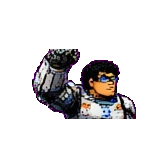
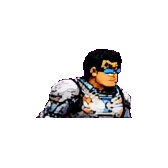
Kits novos da Winx.exe e da Guarda Digital, Dev Veterano recortado de novo
- Winx.exe (sistema operacional): Pop-up de Erro (3 janelas teleguiadas
  que cegam), Alt+Tab (teleporte pras costas / cai por cima), Tela Azul
  (congela), Desfragmentar (puxa e embaralha os botoes), ult Atualizacao
  Forcada (botoes embaralhados + sem poderes + perde medidor)
- Guarda Digital (seguranca de rede): Taser de Rede (paralisa), Algemas
  Criptografadas (prende + vulneravel), Muralha de Firewall, Drones de
  Vigilancia (chuva com aviso), ult Quarentena (zona: sem poderes, lento)
- fx.shuffle (botoes embaralhados) vale pra qualquer habilidade
- kits em js/data/kits-v15.js, depois de todas as camadas antigas
- balanceamento: Winx 57%, Guarda 52% (forca 1.77 -> 2.2 na tabela unica)
- Dev Veterano: recortado de novo da folha 'reformulado' do dono (pose
  parada de verdade, soco em 3 tempos, especial com a arma, tamanho igual
  em todas as poses); sem imagem nova
- testes de perf/selecao aceitam o skipGame (demo parada no celular)

Claude-Session: https://claude.ai/code/session_01SiaquMaGUrkfDxfxtSpwxQ

Changed region(s): [[0.1786, 0.2679, 0.8333, 0.7143]]

diff --git a/js/data/kits-v15.js b/js/data/kits-v15.js
@@ -1,0 +1,66 @@
+/* DS Fighters — kits renovados (nov/2026, pedido do dono: "muito genericos").
+   Carregado DEPOIS de todas as camadas de balanceamento (powers-balance-v6..v13,
+   balance-v14 e a tabela unica balance-final.js): o kit aqui e o definitivo.
+   Usa as mesmas linhas do atlas de habilidades de cada um (sem arte nova). */
+(() => {
+  const vis = (id, row, color) => ({ visualSheet: id, visualRow: row, impactSheets: [], impactColor: color });
+
+  /* WINX.EXE — a Guardia do Desktop: o sistema operacional virou arma.
+     Pop-ups que tampam a tela, Alt+Tab pras costas, tela azul que congela,
+     desfragmentar que puxa e embaralha, e a atualizacao forcada. */
+  if (POWERS['winx-exe']) {
+    POWERS['winx-exe'] = Object.assign({}, POWERS['winx-exe'], {
+      theme: 'sistema operacional: pop-ups, Alt+Tab, tela azul, desfragmentar e atualizacao forcada',
+      powers: [
+        Object.assign({ id: 'popup-erro', name: 'Pop-up de Erro', slot: 'simple', row: 0, kind: 'barrage', count: 3, dmg: 8, seek: true, homing: 0.4, cd: 46, sfx: 'neon',
+          fx: { blind: 45, glitch: 40 },
+          desc: '3 janelas de ERRO perseguem o rival e tampam a tela dele (CEGO).' }, vis('winx-exe', 0, '#45e6ff')),
+        Object.assign({ id: 'alt-tab', name: 'Alt+Tab', slot: 'simple', row: 1, kind: 'shadowport', burstDmg: 18, stun: 22, cd: 54, sfx: 'magic',
+          fx: { dizzy: 30 },
+          desc: 'Some da janela e reaparece nas COSTAS do rival (aperte soco/chute pra emendar) ou cai por CIMA esmagando: TONTO.' }, vis('winx-exe', 1, '#ff4fd8')),
+        Object.assign({ id: 'tela-azul', name: 'Tela Azul', slot: 'charge', meter: 0, row: 2, kind: 'pillar', at: 'target', big: true, delay: 20, dmg: 20, stun: 30, launch: -8, cd: 76, sfx: 'explosion',
+          fx: { freeze: 45, glitch: 60 },
+          desc: 'O sistema do rival trava: TELA AZUL que CONGELA por um instante.' }, vis('winx-exe', 2, '#2a6bff')),
+        Object.assign({ id: 'desfragmentar', name: 'Desfragmentar', slot: 'charge', meter: 1, row: 3, kind: 'pull', range: 360, dmg: 12, stun: 30, cd: 92, sfx: 'neon',
+          fx: { shuffle: 150, meterSlow: 40 },
+          desc: 'Reorganiza o disco: PUXA o rival pra perto e EMBARALHA os botões dele.' }, vis('winx-exe', 3, '#45e6ff')),
+        Object.assign({ id: 'atualizacao-forcada', name: 'Atualização Forçada', slot: 'ultimate', row: 4, kind: 'blast', at: 'target', radius: 260, dmg: 30, stun: 40, launch: -9, cd: 130, sfx: 'ultimate',
+          fx: { shuffle: 240, lock: 90, meterBurn: 35 },
+          desc: 'ULT: "Instalando atualização 1 de 87...": botões EMBARALHADOS, SEM PODERES e o medidor do rival cai.' }, vis('winx-exe', 4, '#45e6ff')),
+      ],
+    });
+  }
+
+  /* GUARDA DIGITAL — a Sentinela do Perimetro: seguranca de rede.
+     Taser que paralisa, algemas que prendem, muralha de firewall, drones de
+     vigilancia e a quarentena que isola o invasor. */
+  if (POWERS['guarda-digital']) {
+    POWERS['guarda-digital'] = Object.assign({}, POWERS['guarda-digital'], {
+      theme: 'seguranca de rede: taser, algemas, firewall, drones e quarentena',
+      powers: [
+        Object.assign({ id: 'taser-rede', name: 'Taser de Rede', slot: 'simple', row: 0, kind: 'beam', range: 300, dmg: 14, stun: 20, cd: 44, sfx: 'thunder_cast',
+          fx: { shock: 70, paralyze: 18 },
+          desc: 'Descarga do taser em linha: ELETRIZA e PARALISA de leve.' }, vis('guarda-digital', 0, '#2ad4ff')),
+        Object.assign({ id: 'algemas', name: 'Algemas Criptografadas', slot: 'simple', row: 1, kind: 'shot', speed: 12, dmg: 12, stun: 16, trap: 55, cd: 60, sfx: 'metal',
+          fx: { vuln: 90 },
+          desc: 'Algemas de dados que PRENDEM o rival no lugar e deixam VULNERÁVEL.' }, vis('guarda-digital', 1, '#48dfff')),
+        Object.assign({ id: 'muralha-firewall', name: 'Muralha de Firewall', slot: 'charge', meter: 0, row: 2, kind: 'wall', time: 330, dmg: 12, slow: 30, cd: 90, sfx: 'shield',
+          desc: 'Ergue um firewall: BLOQUEIA projéteis e deixa LENTO quem encostar.' }, vis('guarda-digital', 2, '#2ad4ff')),
+        Object.assign({ id: 'drones', name: 'Drones de Vigilância', slot: 'charge', meter: 1, row: 3, kind: 'rain', count: 4, dmg: 20, cd: 100, sfx: 'explosion',
+          fx: { vuln: 80, shock: 40 },
+          desc: '4 drones bombardeiam a posição do rival, com aviso: VULNERÁVEL + ELETRIZADO.' }, vis('guarda-digital', 3, '#7fe0ff')),
+        Object.assign({ id: 'quarentena', name: 'Quarentena', slot: 'ultimate', row: 4, kind: 'zone', at: 'target', time: 260, w: 300, dmg: 0.16, slow: 60, cd: 130, sfx: 'ultimate',
+          fx: { lock: 100, meterSlow: 90 },
+          desc: 'ULT: isola o rival em QUARENTENA: dano contínuo, LENTO, SEM PODERES e medidor travado.' }, vis('guarda-digital', 4, '#2ad4ff')),
+      ],
+    });
+  }
+  if (typeof SIGNATURES !== 'undefined') {
+    SIGNATURES['guarda-digital'] = Object.assign({}, SIGNATURES['guarda-digital'] || {}, {
+      trait: 'SENTINELA', desc: 'Controle de perímetro: taser, algemas que prendem, firewall, drones e quarentena.',
+    });
+    SIGNATURES['winx-exe'] = Object.assign({}, SIGNATURES['winx-exe'] || {}, {
+      trait: 'SISTEMA OPERACIONAL', desc: 'Pop-ups que cegam, Alt+Tab pras costas, tela azul, desfragmentar que embaralha e atualização forçada.',
+    });
+  }
+})();

diff --git a/index.html b/index.html
@@ -475,7 +475,7 @@
     <div class="turn-phone"><b>GIRE O CELULAR</b><p>A luta é na horizontal. A arena fica no meio e os botões nos cantos.</p></div>
   </div>
 
-  <script src="assets/sprites/layout.js?v=v79-sprites"></script>
+  <script src="assets/sprites/layout.js?v=v79-devvet"></script>
   <script>
     /* Blindagem contra layout.js velho em cache: os arquivos de dados
        (fighters-v7..v11) escrevem em SPRITE_LAYOUT.files / .perFighter,
@@ -557,7 +557,8 @@
   <script src="js/data/fighters-stella.js?v=v73-stella"></script>
   <script src="js/data/fighters-kernor.js?v=v78-kernor-ia"></script>
   <script src="js/data/balance-v14.js?v=v79-pr127"></script>
-  <script src="js/data/balance-final.js?v=v79-tabela"></script>
+  <script src="js/data/balance-final.js?v=v79-guarda"></script>
+  <script src="js/data/kits-v15.js?v=v79-kits"></script>
   <script src="js/data/balance.js?v=v53-torneio"></script>
   <script src="js/data/pets.js?v=v47-maresprites"></script>
   <script src="js/data/accessories.js?v=v57-acessorios"></script>
@@ -573,7 +574,7 @@
   <script src="js/engine/input.js?v=v47-maresprites"></script>
   <script src="js/ui/viewport.js?v=v47-maresprites"></script>
   <script src="js/engine/projectile.js?v=v72-kuno"></script>
-  <script src="js/engine/fighter.js?v=v79-pr127"></script>
+  <script src="js/engine/fighter.js?v=v79-kits"></script>
   <script src="js/engine/vfx.js?v=v47-maresprites"></script>
   <script src="js/engine/weather.js?v=v74-torneio"></script>
   <script src="js/engine/mechanics.js?v=v55-revisao"></script>

diff --git a/js/data/balance-final.js b/js/data/balance-final.js
@@ -43,7 +43,7 @@ const BALANCE_FINAL = {
   'hana': { power: 1.492, hp: 165, speed: 1.18, weight: 0.92, meterRate: 1.15 }, /* HANA */
   'cyber-psicopata': { power: 1.32, hp: 141, speed: 1.26, weight: 1.12, meterRate: 1.4 }, /* CYBER-PSICOPATA */
   'grika': { power: 1.914, hp: 179, speed: 1.16, weight: 1.02, meterRate: 1.36 }, /* GRIKA, A SONHADORA SOMBRIA */
-  'guarda-digital': { power: 1.766, hp: 184, speed: 1.22, weight: 1.08, meterRate: 1.4 }, /* GUARDA DIGITAL */
+  'guarda-digital': { power: 2.2, hp: 184, speed: 1.22, weight: 1.08, meterRate: 1.4 }, /* GUARDA DIGITAL */
   'engenheira-prompt': { power: 0.805, hp: 82, speed: 1.24, weight: 1.04, meterRate: 1.42 }, /* ENGENHEIRA DE PROMPT */
   'odette': { power: 1.02, hp: 103, speed: 1.22, weight: 1.06, meterRate: 1.42 }, /* ODETTE */
   'john-vibe': { power: 1.768, hp: 182, speed: 1.1, weight: 1.05, meterRate: 1.2 }, /* JOHN THE VIBE CODER */

diff --git a/js/engine/fighter.js b/js/engine/fighter.js
@@ -627,7 +627,8 @@ class Fighter {
     if (fx.resonance) this.addStatus('resonance', fx.resonance, atk);
     if (fx.slow) this.addStatus('slow', fx.slow);
     if (fx.lock) this.addStatus('locked', fx.lock);
-    if (fx.dizzy) this.addStatus('dizzy', fx.dizzy, atk); /* Jester/Domador: estavam no kit e ninguem aplicava */
+    if (fx.dizzy) this.addStatus('dizzy', fx.dizzy, atk);
+    if (fx.shuffle) this.addStatus('shuffled', fx.shuffle, atk); /* botoes embaralhados (Winx.exe; antes so o Jester tinha) */ /* Jester/Domador: estavam no kit e ninguem aplicava */
     if (fx.stun) this.stunGauge += fx.stun * controlScale;
     if (fx.drain) atk.heal(d * fx.drain);
     if (fx.meterBurn) { this.charge[0] = Math.max(0, this.charge[0] - fx.meterBurn); this.charge[1] = Math.max(0, this.charge[1] - fx.meterBurn); }

diff --git a/assets/sprites/layout.js b/assets/sprites/layout.js
@@ -153,5 +153,6 @@ SPRITE_LAYOUT.perFighter['nina-vector'] = Object.assign(SPRITE_LAYOUT.perFighter
 SPRITE_LAYOUT.perFighter.kotlin = Object.assign(SPRITE_LAYOUT.perFighter.kotlin || {}, { scale: 1.22 });
 SPRITE_LAYOUT.ver = SPRITE_LAYOUT.ver || {};
 SPRITE_LAYOUT.ver['winx-exe'] = 'v79-winx-recorte';
+SPRITE_LAYOUT.ver['dev-veterano'] = 'v79-devvet-recorte';
 
 /* Fim do layout. */

diff --git a/tools/integrate_fighter.py b/tools/integrate_fighter.py
@@ -285,6 +285,27 @@ WINX_POSES = {
     'win':     ([(1, 4, False)] * 4, 195, BASE),
 }
 
+# DEV VETERANO reformulado (folha 4x5 do dono, fundo magenta). (col, linha, flip):
+# l0 idle/andar/correr/pulo | l1 agachado/guarda/soco/soco | l2 chute/saca/mira/tiro
+# l3 giro/hit/KO/ajoelhado | l4 vitoria/idle2/tiro forte/idle3
+DEVVET_POSES = {
+    'idle':    ([(0, 0, False), (1, 4, False), (0, 0, False), (3, 4, False)], 195, BASE),
+    'walk':    ([(1, 0, False), (2, 0, False), (1, 0, False), (2, 0, False)], 190, BASE),
+    'jump':    ([(3, 0, False)] * 4, 175, AIR),
+    'crouch':  ([(0, 1, False)] * 4, 135, BASE),
+    'punch':   ([(1, 1, False), (2, 1, False), (3, 1, False), (2, 1, False)], 190, BASE),
+    'kick':    ([(0, 2, False)] * 4, 185, BASE),
+    'cpunch':  ([(0, 1, False)] * 4, 135, BASE),
+    'ckick':   ([(3, 3, False)] * 4, 140, BASE),
+    'jpunch':  ([(3, 1, False)] * 4, 175, AIR),
+    'jkick':   ([(0, 2, False)] * 4, 175, AIR),
+    'special': ([(1, 2, False), (2, 2, False), (3, 2, False), (0, 3, False)], 195, BASE),
+    'hit':     ([(1, 3, False)] * 4, 185, BASE),
+    'block':   ([(1, 1, False)] * 4, 190, BASE),
+    'ko':      ([(2, 3, False)] * 4, 80, BASE),
+    'win':     ([(0, 4, False)] * 4, 195, BASE),
+}
+
 # Grika reformulada: folha1 (si=0: idle/andar/pulo/agachar | garra-L/chute-L/tiro-L/hit-L)
 # folha2 (si=1: chute/idle/tiro/garra | agachar/KO/pulo-ar/vitoria). 4-tuplas (si,ci,ri,flip).
 GRIKA_POSES = {
@@ -1102,6 +1123,14 @@ FIGHTERS = {
         'row_bands': [(19, 461), (470, 960), (960, 1440)],
         'col_bands': [(0, 640), (640, 1280), (1280, 1920)],
         'dark_bg': True,
+    },
+    'dev-veterano': {
+        'sheet': 'dev veterano reformulado.jpg',
+        'abilities': 'habilidades-dev-veterano.png',
+        'abilities_keep': True,
+        'holes': True,
+        'poses': DEVVET_POSES,
+        'ui_cell': (0, 0, False),
     },
     'winx-exe': {
         'holes': True,  # o fundo entre as pernas ficava preso (triangulo escuro)
